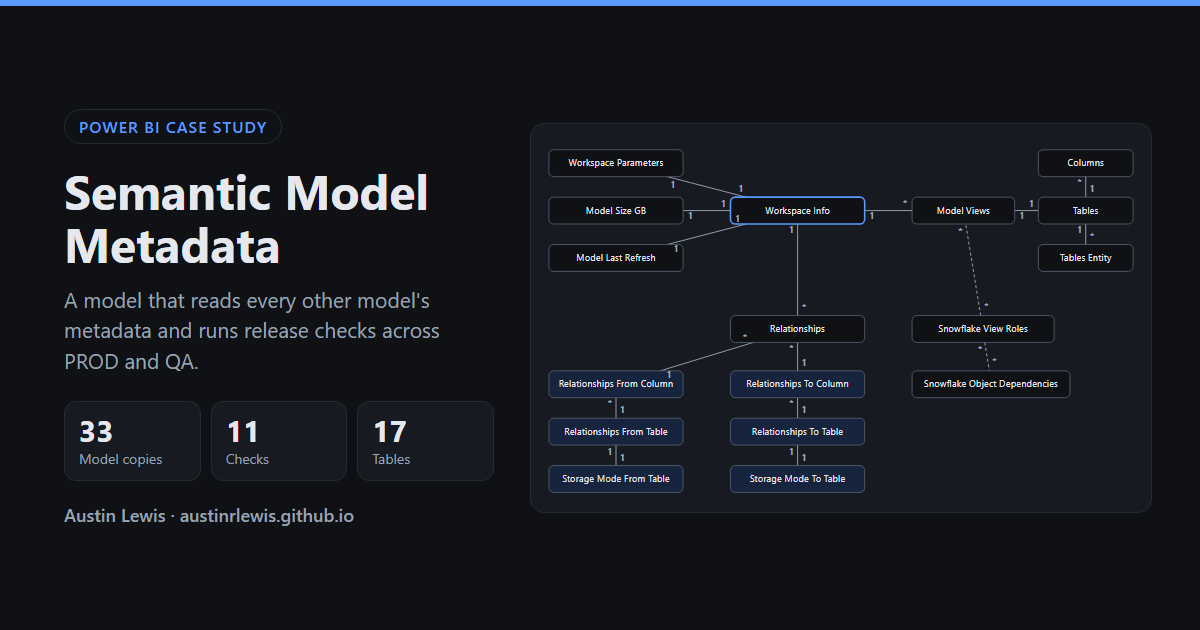
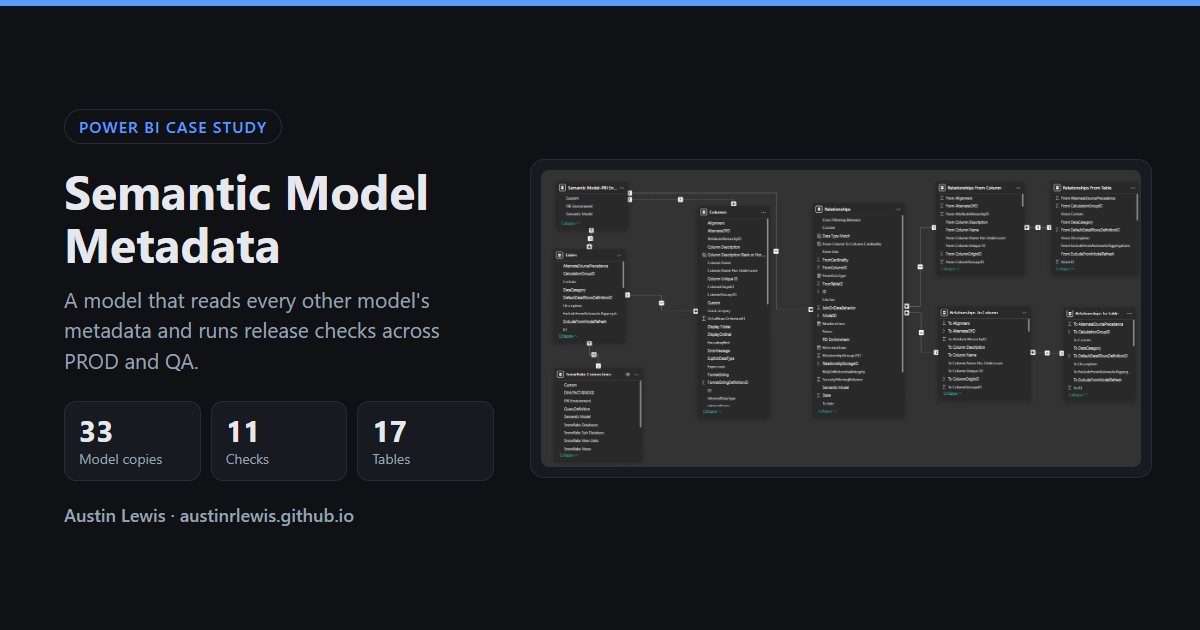
Case study: real Power BI model view in place of the drawn diagram
Same swap as the home page in be34567. The hub bullet and caption now
use the real table names, and the link preview card shows the screenshot.

Changed region(s): [[0.4317, 0.2413, 0.9558, 0.7841]]

diff --git a/semantic-model-metadata.html b/semantic-model-metadata.html
@@ -14,7 +14,7 @@
 <meta property="og:title" content="Semantic Model Metadata | Austin Lewis">
 <meta property="og:description" content="A Power BI model that reads the metadata of every other model, with 11 automated release checks.">
 <meta property="og:url" content="https://austinrlewis.github.io/semantic-model-metadata.html">
-<meta property="og:image" content="https://austinrlewis.github.io/assets/og-case-study.png?v=1">
+<meta property="og:image" content="https://austinrlewis.github.io/assets/og-case-study.png?v=2">
 <meta name="twitter:card" content="summary_large_image">
 <link rel="canonical" href="https://austinrlewis.github.io/semantic-model-metadata.html">
 <link rel="icon" href="assets/favicon.svg" type="image/svg+xml">
@@ -85,15 +85,7 @@
   .pipe li.key { border-color: var(--accent); }
 
   .erd { margin: 14px 0 0; overflow-x: auto; border: 1px solid var(--line); border-radius: 10px; background: var(--card); padding: 8px; }
-  .erd svg { display: block; width: 100%; min-width: 640px; height: auto; }
-  .erd rect { fill: var(--bg); stroke: var(--ctl); stroke-width: 1; }
-  .erd rect.hub { stroke: var(--accent); stroke-width: 2; }
-  .erd rect.copy { fill: color-mix(in srgb, var(--accent) 16%, var(--bg)); }
-  .erd text { font-size: 11.5px; fill: var(--text); text-anchor: middle; font-family: inherit; }
-  .erd text.cd { font-size: 11px; font-weight: 700; fill: var(--muted); }
-  .erd text.legend { text-anchor: start; font-size: 11px; fill: var(--muted); }
-  .erd line { stroke: var(--muted); stroke-width: 1.2; }
-  .erd line.mm { stroke-dasharray: 4 3; }
+  .erd img { display: block; width: 100%; min-width: 640px; height: auto; border-radius: 6px; }
 
   pre.code { margin: 0; padding: 12px 14px; background: var(--card); border: 1px solid var(--line); border-radius: 10px; overflow-x: auto;
     font: 12.5px/1.5 Consolas, "Cascadia Mono", monospace; color: var(--text); white-space: pre; }
@@ -187,85 +179,14 @@
   <div class="wrap">
     <h2>The model</h2>
     <ul class="points">
-      <li>Workspace Info is the hub, with one row per model and environment. One slicer on it filters every page.</li>
+      <li>Semantic Model-PBI Environment is the hub, with one row per model and environment. One slicer on it filters every page.</li>
       <li>Relationships joins to separate From and To copies of Columns and Tables. Each relationship row can then compare its two ends' data types and storage modes.</li>
       <li>Snowflake's OBJECT_DEPENDENCIES view maps each view a model reads to the tables behind it, and which roles can read it.</li>
     </ul>
     <figure class="erd">
-<svg viewBox="0 0 760 466" role="img" aria-labelledby="erd-t erd-d">
-<title id="erd-t">Semantic Model Metadata data model: 17 tables and 16 relationships</title>
-<desc id="erd-d">Workspace Info is the hub, one row per model and environment. Workspace Parameters, Model Size GB, Model Last Refresh, Model Views and Relationships join to it. Tables joins one to one with Model Views; Columns and Tables Entity join many to one to Tables. Relationships joins to From and To copies of Columns, each joined to a Tables copy and a storage mode table. Snowflake View Roles joins many to many with Model Views and with Snowflake Object Dependencies.</desc>
-<line x1="690" y1="54" x2="690" y2="80"/>
-<line x1="690" y1="140" x2="690" y2="114"/>
-<line x1="600" y1="97" x2="630" y2="97"/>
-<line x1="470" y1="97" x2="410" y2="97"/>
-<line x1="180" y1="97" x2="240" y2="97"/>
-<line x1="160" y1="54" x2="260" y2="80"/>
-<line x1="160" y1="140" x2="260" y2="114"/>
-<line x1="325" y1="230" x2="325" y2="114"/>
-<line x1="269" y1="264" x2="151" y2="300"/>
-<line x1="325" y1="264" x2="325" y2="300"/>
-<line x1="95" y1="334" x2="95" y2="360"/>
-<line x1="325" y1="334" x2="325" y2="360"/>
-<line x1="95" y1="420" x2="95" y2="394"/>
-<line x1="325" y1="420" x2="325" y2="394"/>
-<line class="mm" x1="557" y1="230" x2="538" y2="114"/>
-<line class="mm" x1="562" y1="264" x2="568" y2="300"/>
-<rect x="10" y="20" width="170" height="34" rx="6"/><text x="95" y="41">Workspace Parameters</text>
-<rect x="10" y="80" width="170" height="34" rx="6"/><text x="95" y="101">Model Size GB</text>
-<rect x="10" y="140" width="170" height="34" rx="6"/><text x="95" y="161">Model Last Refresh</text>
-<rect class="hub" x="240" y="80" width="170" height="34" rx="6"/><text x="325" y="101">Workspace Info</text>
-<rect x="470" y="80" width="130" height="34" rx="6"/><text x="535" y="101">Model Views</text>
-<rect x="630" y="20" width="120" height="34" rx="6"/><text x="690" y="41">Columns</text>
-<rect x="630" y="80" width="120" height="34" rx="6"/><text x="690" y="101">Tables</text>
-<rect x="630" y="140" width="120" height="34" rx="6"/><text x="690" y="161">Tables Entity</text>
-<rect x="240" y="230" width="170" height="34" rx="6"/><text x="325" y="251">Relationships</text>
-<rect class="copy" x="10" y="300" width="170" height="34" rx="6"/><text x="95" y="321">Relationships From Column</text>
-<rect class="copy" x="10" y="360" width="170" height="34" rx="6"/><text x="95" y="381">Relationships From Table</text>
-<rect class="copy" x="10" y="420" width="170" height="34" rx="6"/><text x="95" y="441">Storage Mode From Table</text>
-<rect class="copy" x="240" y="300" width="170" height="34" rx="6"/><text x="325" y="321">Relationships To Column</text>
-<rect class="copy" x="240" y="360" width="170" height="34" rx="6"/><text x="325" y="381">Relationships To Table</text>
-<rect class="copy" x="240" y="420" width="170" height="34" rx="6"/><text x="325" y="441">Storage Mode To Table</text>
-<rect class="sf" x="470" y="230" width="180" height="34" rx="6"/><text x="560" y="251">Snowflake View Roles</text>
-<rect class="sf" x="470" y="300" width="200" height="34" rx="6"/><text x="570" y="321">Snowflake Object Dependencies</text>
-<text class="cd" x="682" y="66">*</text>
-<text class="cd" x="698" y="74">1</text>
-<text class="cd" x="698" y="134">*</text>
-<text class="cd" x="682" y="126">1</text>
-<text class="cd" x="609" y="108">1</text>
-<text class="cd" x="621" y="92">1</text>
-<text class="cd" x="461" y="92">*</text>
-<text class="cd" x="419" y="108">1</text>
-<text class="cd" x="189" y="108">1</text>
-<text class="cd" x="231" y="92">1</text>
-<text class="cd" x="167" y="68">1</text>
-<text class="cd" x="253" y="73">1</text>
-<text class="cd" x="171" y="149">1</text>
-<text class="cd" x="249" y="112">1</text>
-<text class="cd" x="333" y="224">*</text>
-<text class="cd" x="317" y="126">1</text>
-<text class="cd" x="258" y="262">*</text>
-<text class="cd" x="162" y="309">1</text>
-<text class="cd" x="317" y="276">*</text>
-<text class="cd" x="333" y="294">1</text>
-<text class="cd" x="87" y="346">*</text>
-<text class="cd" x="103" y="354">1</text>
-<text class="cd" x="317" y="346">*</text>
-<text class="cd" x="333" y="354">1</text>
-<text class="cd" x="103" y="414">1</text>
-<text class="cd" x="87" y="406">1</text>
-<text class="cd" x="333" y="414">1</text>
-<text class="cd" x="317" y="406">1</text>
-<text class="cd" x="564" y="223">*</text>
-<text class="cd" x="531" y="128">*</text>
-<text class="cd" x="556" y="278">*</text>
-<text class="cd" x="574" y="293">*</text>
-<text class="legend" x="470" y="380">1 = one side, * = many side, dashed = many to many.</text>
-<text class="legend" x="470" y="398">Shaded = role-playing copies of Columns and Tables,</text>
-<text class="legend" x="470" y="414">so each relationship row reads both of its ends.</text>
-</svg>
+<a href="assets/semantic-model-diagram.png" target="_blank" rel="noopener"><img src="assets/semantic-model-diagram.png" width="1400" height="693" loading="lazy" alt="Power BI model view of the Semantic Model Metadata model. Relationships sits in the middle, joined to role-playing copies of Columns and Tables for the From and To end of each relationship. Tables, Columns and Snowflake Connections join to the Semantic Model-PBI Environment table."></a>
     </figure>
-    <p class="cap">Table and relationship layout from the real model. On a phone, scroll the diagram sideways.</p>
+    <p class="cap">The real model in Power BI Desktop's model view, showing 9 of its 17 tables. Select it to open full size; on a phone, scroll it sideways. Field names in the checks and code below are changed.</p>
   </div>
 </section>
 
